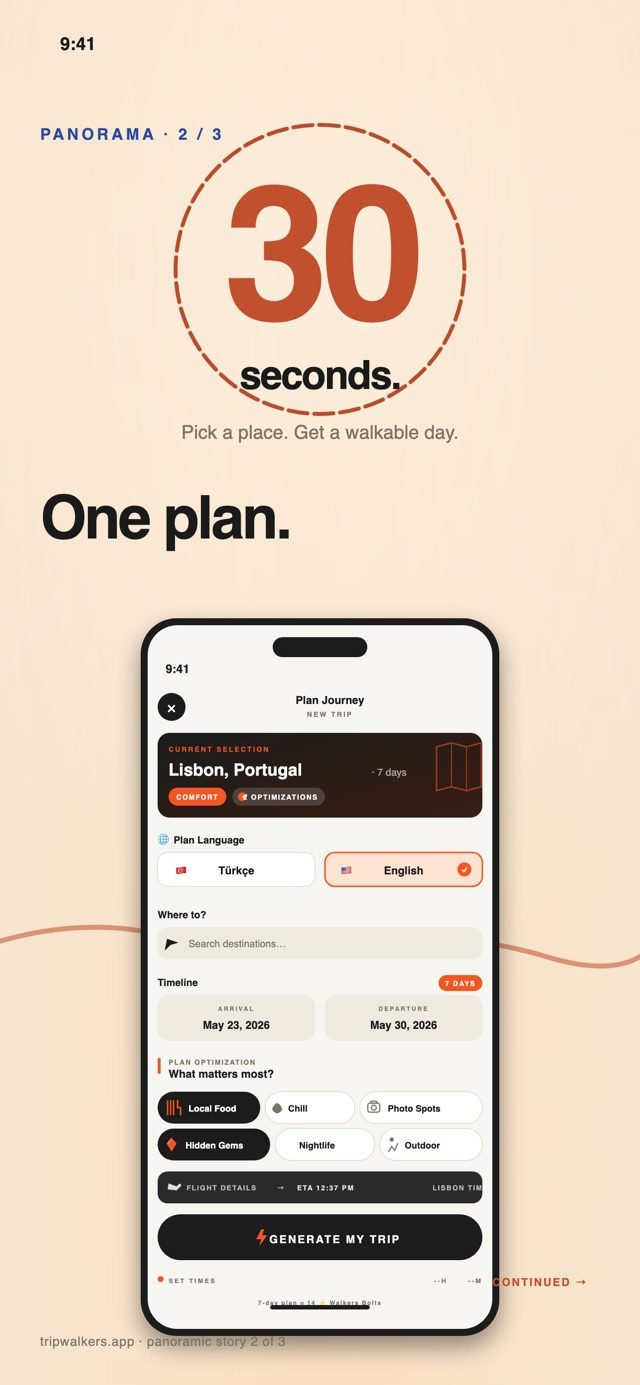
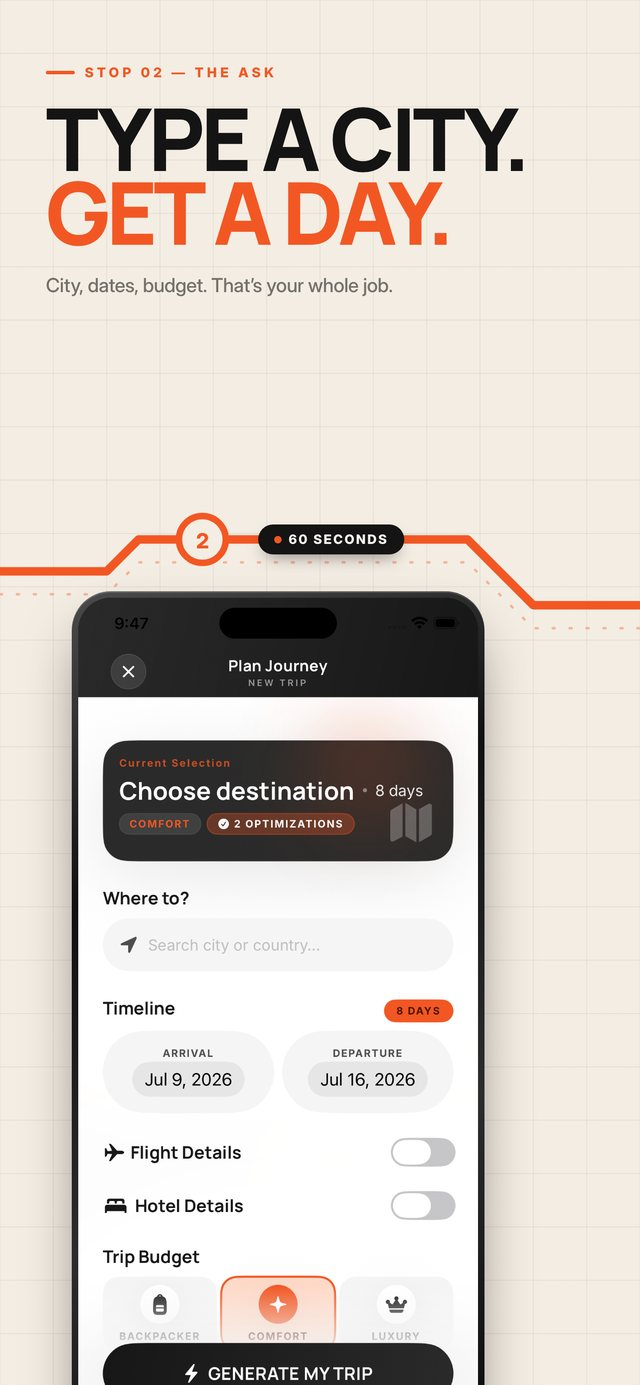
content: TripWalkers gallery uses the v5 "orange line" panels
Seven marketing panels replace the five raw store screenshots, taken from
AppStore_Creative/v5-designer/panels and downscaled to 640w JPEG (680 KB).

The set is designed as one walking route: the orange line leaves each panel
and re-enters the next at the same height, so a gap would cut it. Added
screenshotsSeamless, which drops the row gap and the per-image border and
rounds only the outer corners. Every other gallery keeps the spaced look.

Verified on a local production build: seven images, computed gap 0px, all six
panel-to-panel gaps measured 0px, no horizontal overflow on the page body.

Claude-Session: https://claude.ai/code/session_019HmMk357FnRMChamzbxkrQ

diff --git a/src/app/globals.css b/src/app/globals.css
@@ -286,6 +286,34 @@ body {
   scroll-snap-align: start;
 }
 
+/* Bitisik mod: paneller arasi bosluk ve cerceve yok — panelden panele gecen
+   tasarim (TripWalkers'in turuncu hatti) kopmasin diye. */
+.shots-seamless {
+  gap: 0;
+}
+
+.shots-seamless img {
+  border: 0;
+  border-radius: 0;
+}
+
+.shots-seamless > li:first-child img {
+  border-top-left-radius: 18px;
+  border-bottom-left-radius: 18px;
+}
+
+.shots-seamless > li:last-child img {
+  border-top-right-radius: 18px;
+  border-bottom-right-radius: 18px;
+}
+
+@media (hover: hover) {
+  .shots-seamless img:hover {
+    transform: none;
+    border-color: transparent;
+  }
+}
+
 .shots-row img {
   display: block;
   width: clamp(150px, 30vw, 208px);

diff --git a/src/data/projects.ts b/src/data/projects.ts
@@ -23,7 +23,8 @@ export const projects: Project[] = [
     stack: ["SwiftUI", "Swift 6", "Supabase", "StoreKit 2", "AI itinerary"],
     featured: true,
     appStoreUrl: "https://apps.apple.com/tr/app/tripwalkers/id6764424121",
-    screenshots: 5,
+    screenshots: 7,
+    screenshotsSeamless: true,
     summary: {
       en: "AI travel planner that turns a city and three free days into an hour-by-hour itinerary.",
       tr: "Bir şehri ve üç boş günü saat saat gezi planına çeviren AI seyahat planlayıcı.",

diff --git a/src/data/taxonomy.ts b/src/data/taxonomy.ts
@@ -55,6 +55,11 @@ export interface Project {
    */
   screenshots?: number;
   /**
+   * Panelleri bitişik göster. TripWalkers'ın 7 paneli tek bir yürüyüş rotası:
+   * turuncu hat panelden panele devam ediyor, aradaki boşluk hattı koparır.
+   */
+  screenshotsSeamless?: boolean;
+  /**
    * Projenin ikinci evi. Ameliea hem web platformu hem iOS uygulaması —
    * iki sekmede birden görünür, tek detay sayfası paylaşır.
    */

diff --git a/src/app/[lang]/work/[slug]/page.tsx b/src/app/[lang]/work/[slug]/page.tsx
@@ -115,7 +115,7 @@ export default async function ProjectPage({
 
         {project.screenshots ? (
           <figure className="shots mt-8">
-            <ul className="shots-row">
+            <ul className={`shots-row${project.screenshotsSeamless ? " shots-seamless" : ""}`}>
               {Array.from({ length: project.screenshots }, (_, i) => (
                 <li key={i}>
                   <img
